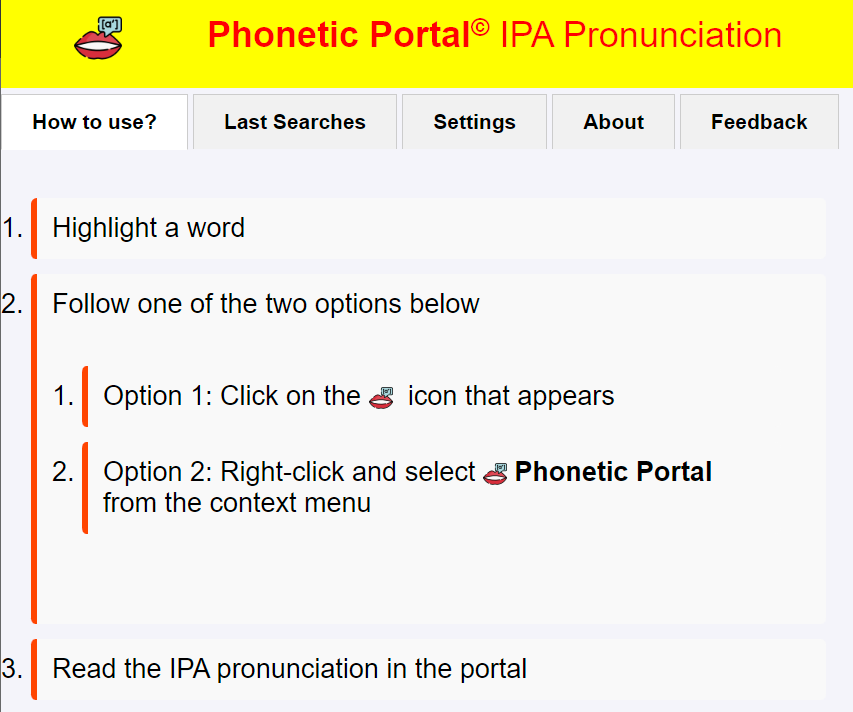
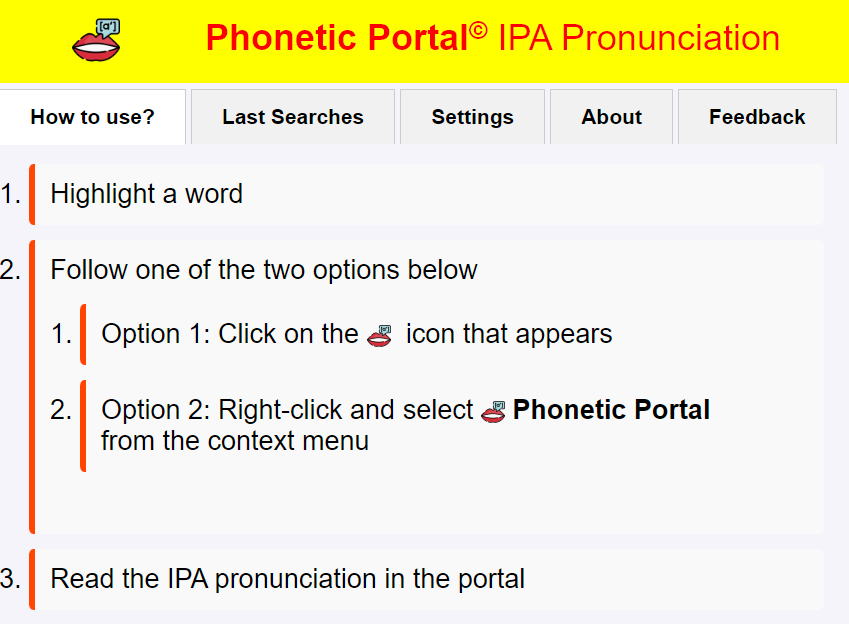
Center main text on the top and update SS

diff --git a/css/index.css b/css/index.css
@@ -24,7 +24,7 @@ body {
 	height: var(--header-height);
 	background-color: yellow;
 	color: red;
-	padding: 10px;
+	padding: 15px;
 	text-align: center;
 	font-size: 24px;
 }
@@ -36,7 +36,7 @@ ol {
 	padding: 20px;
 	padding-top:1px;
 	max-width: 600px;
-	margin: 20px auto;
+	margin: 1px auto;
 	list-style-type: decimal;
 }
 
